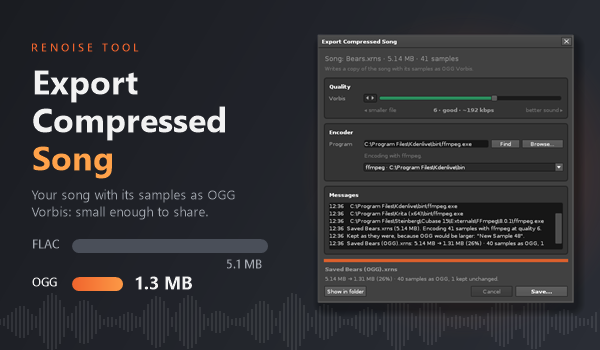
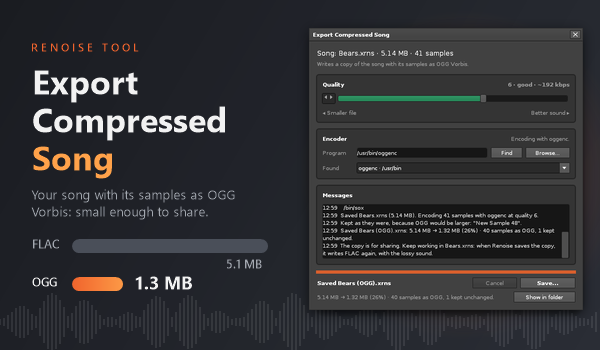
Redesign the dialog and test on Linux
The dialog layout changed when the quality text got longer: a Renoise
text view grows to fit a longer text and never shrinks again. Every text
that changes now keeps a fixed width.

- Each group title row shows the group's state on the right: the quality
  label, and the encoder state.
- The slider uses the full width. The found encoders have a "Found"
  label. No text uses the grey "disabled" style.
- The status line sits beside Cancel and Save. A second line appears
  below the buttons only when it is needed, so the buttons do not move.
- The song line updates when the song is saved and before an export. It
  stayed at "not saved yet" after a save with the dialog open.
- The "save first" message is shorter, so it fits on one line.
- The links point to the current repository name, xrns-ogg.
- New screenshot and cover.

Tested on Fedora with Renoise 3.5.4 and oggenc, ffmpeg and sox: sample
rate, channels, frames, loops and slices survive a round trip. Songs
without samples and songs never saved give a message and write no file.

Changed region(s): [[0.51, 0.0571, 0.99, 0.8857]]

diff --git a/README.md b/README.md
@@ -29,7 +29,7 @@ The user guide, which is also the page on renoise.com, is
 ## Install
 
 Download the `.xrnx` from the
-[releases](https://github.com/dac514/xrnx-ogg/releases) and drag it onto
+[releases](https://github.com/dac514/xrns-ogg/releases) and drag it onto
 Renoise. Renoise 3.5 or newer (API 6.2).
 
 ## How it works

diff --git a/com.dac514.ExportCompressedSong.xrnx/README.md b/com.dac514.ExportCompressedSong.xrnx/README.md
@@ -77,4 +77,4 @@ To get an encoder:
 
 ## License
 
-MIT. Source and issues: https://github.com/dac514/xrnx-ogg
+MIT. Source and issues: https://github.com/dac514/xrns-ogg
